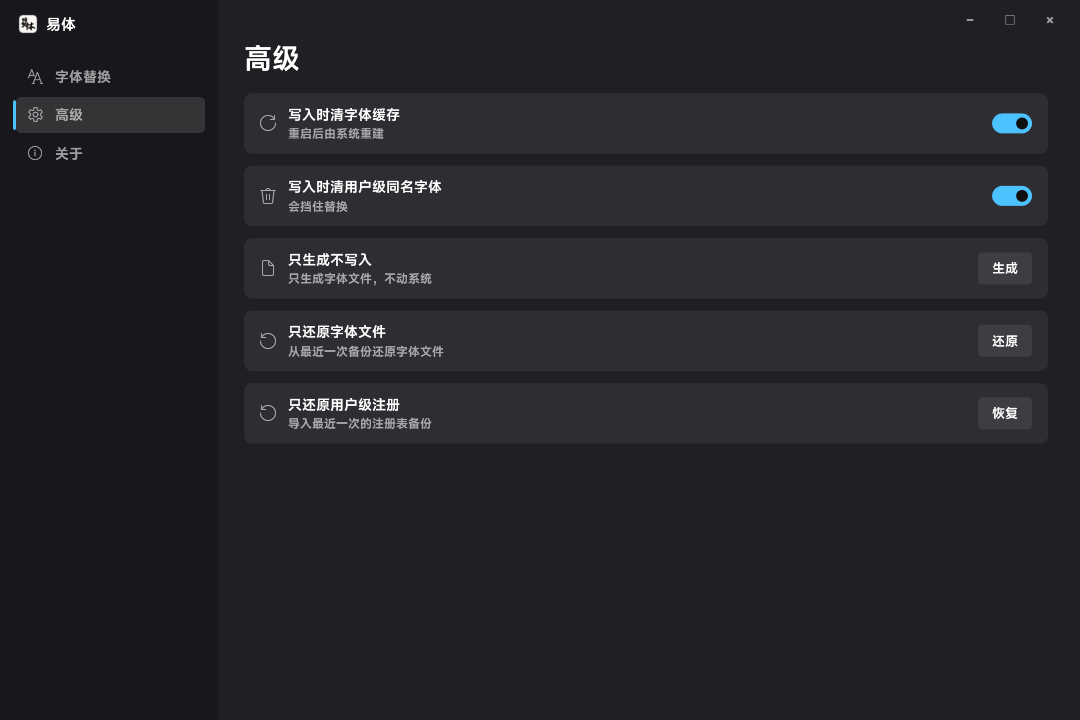
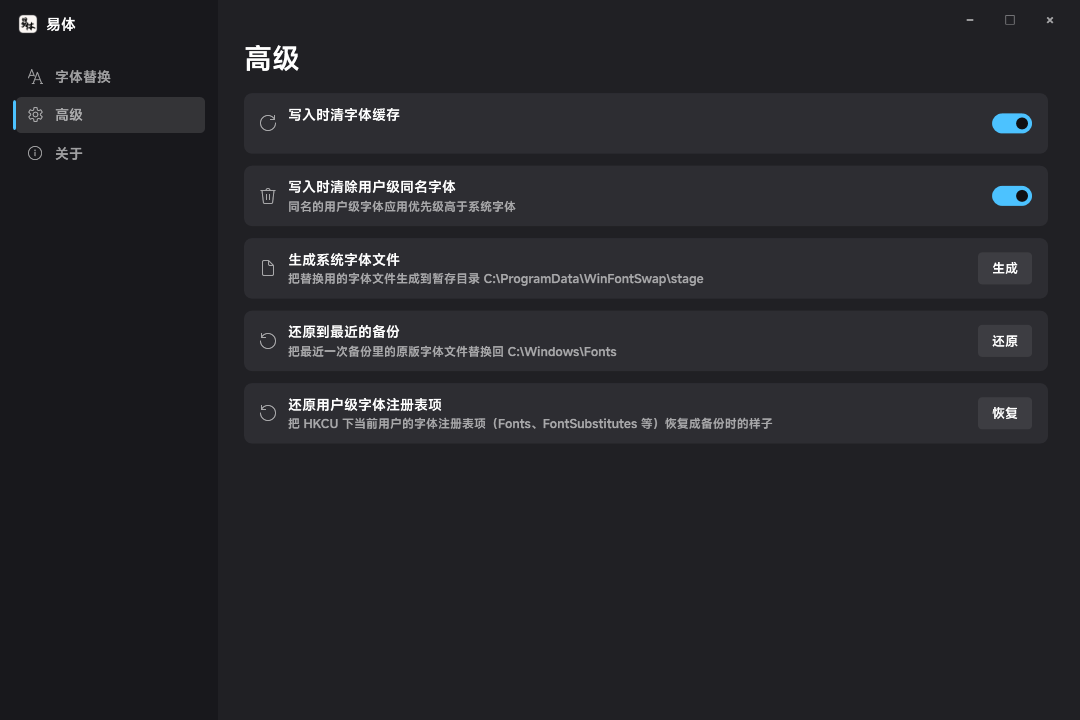
chore: apply edited UI copy, refresh screenshots (zh+en), bump README image version

diff --git a/README.en.md b/README.en.md
@@ -25,7 +25,7 @@ _✨ Foolproof one-click Windows system font swapper ✨_
   <a href="https://github.com/moyuer233/yiti"><img alt="deps" src="https://img.shields.io/badge/single%20exe-no%20deps-5C2D91?style=flat-square&labelColor=161b22&color=5C2D91"/></a>
 </p>
 
-![Font replacement](docs/font.png)
+![Font replacement](docs/font.png?v=2)
 
 ## Features
 
@@ -38,149 +38,3 @@ _✨ Foolproof one-click Windows system font swapper ✨_
 ## How it differs from noMeiryoUI
 
 [noMeiryoUI](https://github.com/Tatsu-syo/noMeiryoUI) changes the *UI font setting* (registry `HKCU\Control Panel`), so it cannot handle: the taskbar, preinstalled apps (Settings, Paint), applications that ignore the system font, and the title bar font on Windows 11.
-
-Yiti replaces the **system font files themselves**, so all of those change too. Two differences that matter:
-
-| | Yiti | noMeiryoUI |
-|---|---|---|
-| Mechanism | Replaces the system font files (the YaHei trio + Segoe UI) | Changes the UI font setting |
-| Settings, Start menu, taskbar, title bar | ✅ all follow | ❌ unsupported |
-| Rollback | Automatic backup + one-click rollback, plus the component store when the backup is gone | Export the registry yourself |
-
-Text rendering sharpness (ClearType), apps that ship their own fonts (Office, Electron apps), and the one reboot required after the first apply.
-
-## Risks
-
-This tool rewrites **system font files**: after applying, you must reboot, and undoing before that reboot is not practical. Known risks:
-
-- **A font with incomplete coverage can leave missing glyphs.** If the font lacks CJK glyphs or the needed weights, menus and title bars may show boxes or blurry text after the reboot; some legacy apps may render badly.
-- **Office / WPS layout and export can change.** A document asking for "Microsoft YaHei" now gets your font, so exported images, printing and PDF conversion differ from before.
-- **A reboot is mandatory.** Font files are swapped at boot; a forced shutdown in between can leave the swap unfinished, needing one more reboot.
-- **Antivirus may block or flag it.** It writes to `C:\Windows\Fonts`, which some security software blocks or reports; a block is reported as an error, never silently ignored.
-- **Windows updates may overwrite it.** Feature updates reset the system fonts, so you have to apply again afterwards.
-- **Rollback depends on the backup or the component store.** Both are created automatically, but if they were cleaned, only a restore point or installation media helps — **create a restore point before the first run**.
-
-## Font support by Windows version
-
-| | Windows 7 | Windows 10 1809+ | Windows 11 22000+ |
-|---|---|---|---|
-| YaHei Regular / Bold | ✅ | ✅ | ✅ |
-| YaHei Light (`msyhl.ttc`) | ❌ not present | ✅ | ✅ |
-| Segoe UI Variable (`SegUIVar.ttf`) | ❌ not present | ✅ | ✅ |
-| Cleanup of per-user same-name fonts | ❌ no such mechanism | ✅ | ✅ |
-| Taskbar / new Settings UI | partial (via `segoeui.ttf`) | ✅ | ✅ |
-| Variable font (.ttf VF) as source | ❌ default instance only | ✅ | ✅ |
-
-On older systems the font cache service is called `FontCache3.0.0.0`; from Windows 10 it is `FontCache`. The app picks the right one by itself.
-
-## Files replaced
-
-| File | Font name | Scope |
-|---|---|---|
-| `msyh.ttc` | Microsoft YaHei Regular | Chinese body text, Settings, Start menu, Explorer |
-| `msyhbd.ttc` | Microsoft YaHei Bold | every bold Chinese label |
-| `msyhl.ttc` | Microsoft YaHei Light | light weight (Windows 8 and newer) |
-| `SegUIVar.ttf` | Segoe UI Variable | taskbar, Settings header, Latin text in the new Windows 11 UI |
-| `segoeui.ttf` | Segoe UI | classic English UI, legacy apps |
-
-System font replacement flow: read the font you picked → rewrite only its internal names to `Microsoft YaHei` / `Segoe UI` and the like → generate files with those names → replace the ones in the system → reboot. That is the only way Windows recognises them.
-
-Shell element font flow: write `HKCU\Control Panel\Desktop\WindowMetrics` to control the font and size of legacy UI elements.
-
-**What cannot be changed**: apps that ship their own fonts (Office, Electron apps, games), web pages that specify a font, and text rendering parameters (ClearType and friends).
-
-### Why the internal names have to change
-
-Windows **does not pick fonts by file name — it reads the `name` table inside the font**. A font carries more than 20 name records, each with an ID:
-
-| ID | Meaning | What the system does with it |
-|---|---|---|
-| 1 | Family | the "Microsoft YaHei" string itself; GDI LOGFONT and WinUI theme resources point at it |
-| 2 | Subfamily | Regular / Bold / Light |
-| 4 | Full name | "Microsoft YaHei Bold" |
-| 6 | PostScript name | Adobe apps identify fonts by it |
-| 16 / 17 | Typographic family / subfamily | modern DirectWrite prefers these |
-| 3 / 18 / 21 / 22 | Unique ID / WWS names | font cache and font menus |
-
-Yiti rewrites exactly those ten fields (each record exists once per platform encoding), and **leaves `glyf` outlines, `hmtx` metrics, `cmap` mappings and `GSUB/GPOS` shaping untouched**. After the swap:
-
-- the UI still says "Microsoft YaHei", but **every stroke comes from your font**;
-- the system resolves fonts by name, finds this renamed file, so Settings, the Start menu and the taskbar follow;
-- copyright / version / trademark / designer (IDs 0, 5, 7, 9) are **deliberately left intact**: original authorship stays visible, and the app can still tell which font is actually installed.
-
-## How it works in detail
-
-The whole process has three stages: build → replace → reboot.
-
-### 1. Build: turn your font into a look-alike
-
-1. Read the source font (for a TTC, one face by index), parse the table directory, keep only TrueType outlines (`glyf`); CFF/OTF sources are rejected.
-2. Rebuild the `name` table: IDs 1 (family), 2 (subfamily), 3/4 (full name), 6 (PostScript), 16/17 (typographic family/subfamily), 18/21/22 (WWS) become Microsoft's names; every other record (copyright 0, version 5, trademark 7, designer 9, …) is copied unchanged.
-3. Package per target:
-
-| Target file | Family names written (number of faces) |
-|---|---|
-| `msyh.ttc` | `Microsoft YaHei` + `Microsoft YaHei UI`, both Regular (2-face TTC) |
-| `msyhbd.ttc` | same two families, Subfamily = **Bold**, PostScript names end with `-Bold` |
-| `msyhl.ttc` | `Microsoft YaHei Light` + `Microsoft YaHei UI Light` (typographic family stays YaHei, typographic style Light) |
-| `SegUIVar.ttf` | `Segoe UI Variable` / `… Text` / `… Display` / `… Small` in one file, **weight axis kept** (variable font) |
-| `segoeui.ttf` | `Segoe UI` (single face) |
-
-4. Recompute table checksums and the `head` checkSumAdjustment, then lay out the TTC directory (face offsets rebased to file positions).
-5. Two self-checks: (a) structural validation of the table directory, name records and face count; (b) **actually loading it** through GDI+ `PrivateFontCollection.AddFontFile` — if Windows cannot load it, the app aborts instead of writing it into the system.
-
-Why multiple faces: WinUI components ask for `Microsoft YaHei UI`, classic GDI asks for `Microsoft YaHei`, and the taskbar asks for `Segoe UI Variable Text/Display/Small` — those families do not fit into a single-face file, so it has to be a multi-face TTC.
-
-### 2. Replacing the system fonts: backup → permissions → queued renames
-
-1. Copy the originals to `C:\ProgramData\WinFontSwap\backup\<stamp>\orig\` and record their SHA-256 in `state.ini`.
-2. Take ownership, grant SYSTEM full control, and **inherit the original font's DACL** (keeping the `ALL APPLICATION PACKAGES` read ACE that UWP needs); without it, packaged apps cannot read the font.
-3. Write the new files into a staging directory, then queue two renames per file in `PendingFileRenameOperations`:
-   - `staged file → C:\Windows\Fonts\msyh.ttc`
-   - `C:\Windows\Fonts\msyh.ttc → backup path`
-   The font files are mapped by the font service, so **only the session manager can swap them at boot**.
-4. Clear the font cache: stop `FontCache` (`FontCache3.0.0.0` on Windows 7), delete `FNTCACHE.DAT` and the per-user `FontCache` directory, otherwise the old glyphs survive the reboot.
-5. Record the `applied` list and each new SHA for status display and rollback decisions.
-
-#### Shell element replacement
-
-The five values under `HKCU\Control Panel\Desktop\WindowMetrics` (`SmCaptionFont`, `MenuFont`, `MessageFont`, `StatusFont`, `IconFont`) are 92-byte `LOGFONTW` blobs: offset 0 holds the height (negative = character height) and offset `0x5C` holds a 32-wide-character face name. The app rewrites those two fields and reads them back to verify.
-
-### 3. Rollback
-
-Compare the SHA in `state.ini` with the current files; if they are ours, queue the originals from the backup through the same boot-time rename list and restore `WindowMetrics` from the backup. If the backup is gone, take the originals from `C:\Windows\WinSxS` by package name (`microsoftyahei` and friends).
-
-## Why renaming a font file does not work
-
-This is the reason the tool exists. The three naive approaches all fail:
-
-| Approach | What happens |
-|---|---|
-| Install a new font (different family name) | System components never use it: the WinUI theme hardcodes `Microsoft YaHei UI` and GDI's LOGFONT hardcodes `Microsoft YaHei`; nothing looks up your family name |
-| Rename the new font file to `msyh.ttc` and overwrite | The file name matches, but **the internal family name is still the original one** (e.g. HarmonyOS Sans), so Windows registers it under that name ⇒ `Microsoft YaHei` cannot be resolved and the UI falls back or shows missing glyphs; a wrong face count/order inside a TTC also breaks bold and light |
-| Replace only `msyh.ttc` | Bold `msyhbd.ttc` and light `msyhl.ttc` stay YaHei, so the UI is only half swapped; the Windows 11 taskbar and Settings header use `SegUIVar.ttf`, which stays untouched; legacy menus and message boxes live in the registry and do not change either |
-
-Four things are required, and skipping any of them leaves you with "Settings changed but the taskbar did not":
-
-1. **Rewrite the internal names** (`name` table) so the system believes this is Microsoft YaHei;
-2. **Replace all five files** — the three YaHei files plus the two Segoe UI files;
-3. **Write the registry** `HKCU\Control Panel\Desktop\WindowMetrics` for legacy shell elements (menu, message box, status bar, icon);
-4. **Clear the font cache and swap at boot** — the files are locked while Windows runs, and a stale cache keeps serving the old glyphs.
-
-## Build from source
-
-Requires the .NET Framework compiler:
-
-```powershell
-powershell -NoProfile -ExecutionPolicy Bypass -File .\build-wpf.ps1
-```
-
-The output is always `dist\YiTi.exe`.
-
-## Disclaimer
-
-The risks of modification are stated above. The author is not liable for system damage, data loss or any other loss caused by using this software.
-
-## License
-
-[MIT](LICENSE) — free to use, modify and redistribute, **as long as the author attribution and this license notice are kept**.

diff --git a/README.md b/README.md
@@ -25,7 +25,7 @@ _✨ 傻瓜式Windows全局字体替换工具 ✨_
   <a href="https://github.com/moyuer233/yiti"><img alt="deps" src="https://img.shields.io/badge/%E5%8D%95%E6%96%87%E4%BB%B6-%E6%97%A0%E4%BE%9D%E8%B5%96-5C2D91?style=flat-square&labelColor=161b22&color=5C2D91"/></a>
 </p>
 
-![字体替换](docs/font.png)
+![字体替换](docs/font.png?v=2)
 
 ## 主要功能
 
@@ -38,148 +38,3 @@ _✨ 傻瓜式Windows全局字体替换工具 ✨_
 ## 和 noMeiryoUI 有什么不同
 
 [noMeiryoUI](https://github.com/Tatsu-syo/noMeiryoUI) 改的是「界面字体设置」（注册表 `HKCU\Control Panel`），所以它做不到：任务栏、预装应用（设置、画图）、忽略系统字体的程序、以及 Windows 11 的标题栏字体。
-
-易体换的是**系统字体文件本身**，这几处都可以更改。两点核心差异：
-
-| | 易体 | noMeiryoUI |
-|---|---|---|
-| 原理 | 替换系统字体文件（雅黑三件套 + Segoe UI） | 改界面字体设置 |
-| 设置、开始菜单、任务栏、标题栏 | ✅ 一起变 | ❌ 不支持 |
-| 回滚 | 自动备份 + 一键回滚，备份丢了还能从系统组件存储取原版 | 需要自己导出注册表 |
-
-字体渲染的清晰度（ClearType）、自带字体的应用（Office、Electron 类）、以及首次必须重启才生效。
-
-## 风险
-
-这个工具改的是**系统字体文件**，属于「改完必须重启、重启前不好回头」的操作。已知风险如下：
-
-- **装错字体可能导致界面缺字**：字体汉字不全或缺对应字重时，重启后菜单、标题栏会出现方框或糊字；严重时部分老程序显示异常。
-- **影响 Office / WPS 的排版与导出**：文档里的「微软雅黑」此时已是你的字体，导出图片、打印、转 PDF 会和原来不一样。
-- **应用必须重启**：字体在重启时才真正替换，中间强制关机可能更换不成功，需要再重启一次。
-- **可能被杀软拦或误报**：要修改 `C:\Windows\Fonts`文件夹，部分安全软件会拦截甚至报毒；被拦时明确报错，不静默失败。
-- **系统更新可能覆盖**：Windows 大版本更新会重置系统字体，更新后要重新应用一次。
-- **回滚依赖备份或组件存储**：会自动备份、也能从 WinSxS 取原版，但两者都被清理过就只剩还原点或安装介质 —— **动手前建议自己再建一个还原点**。
-
-## 不同系统字体修改的区别
-
-| | Win7 | Win10 1809+ | Win11 22000+ |
-|---|---|---|---|
-| 雅黑 常规 / 粗体 | ✅ | ✅ | ✅ |
-| 雅黑 细体（`msyhl.ttc`） | ❌ 系统没有 | ✅ | ✅ |
-| 英数可变字体（`SegUIVar.ttf`） | ❌ 系统没有 | ✅ | ✅ |
-| 清理用户级同名字体 | ❌ 无此机制 | ✅ | ✅ |
-| 任务栏 / 设置等新界面 | 部分（靠 `segoeui.ttf`） | ✅ | ✅ |
-| 可变字体（.ttf 的 VF 版）当源字体 | ❌ 只画默认字重 | ✅ | ✅ |
-
-老系统上「字体缓存服务」叫 `FontCache3.0.0.0`，Win10 之后是 `FontCache`，程序会按系统自己选。
-
-## 系统字体文件替换列表
-
-| 文件 | 字体名称 | 影响范围 |
-|---|---|---|
-| `msyh.ttc` | 微软雅黑 常规 | 中文正文、设置、开始菜单、资源管理器 |
-| `msyhbd.ttc` | 微软雅黑 粗体 | 所有加粗中文 |
-| `msyhl.ttc` | 微软雅黑 细体 | 细体（Win8 起才有） |
-| `SegUIVar.ttf` | Segoe UI Variable | 任务栏、设置顶部、Win11 新界面的英文数字 |
-| `segoeui.ttf` | Segoe UI | 经典英文界面、老程序 |
-
-系统字体替换流程：读取你的所选字体 → 只把字体里的名字改成 `Microsoft YaHei` / `Segoe UI` 此类 → 生成同名字体文件 → 替换系统内的 → 重启生效。只有这样系统才会识别。
-
-系统元素字体替换流程：修改注册表 `HKCU\Control Panel\Desktop\WindowMetrics`，以控制老式界面的字体和字号。
-
-**无法更换的**：自带字体的程序（Office、Electron 应用、游戏）、网页内指定字体的文字、字体渲染参数（ClearType 类）。
-
-### 为什么要改字体里的名字
-
-Windows **找字体不看文件名，看字体内部的 `name` 表**（OpenType 规范里的命名表）。一个字体有 20 多个名字字段，各有编号：
-
-| 编号 | 含义 | 系统拿它干什么 |
-|---|---|---|
-| 1 | 族名（Family） | 就是「微软雅黑」这四个字。GDI 的 LOGFONT、WinUI 主题里写死的字体名都指它 |
-| 2 | 样式（Subfamily） | Regular / Bold / Light |
-| 4 | 完整名 | 「Microsoft YaHei Bold」 |
-| 6 | PostScript 名 | Adobe 系软件按它认字体 |
-| 16 / 17 | 排版族名 / 排版样式 | 现代 DirectWrite 优先用这两个 |
-| 3 / 18 / 21 / 22 | 唯一 ID / WWS 名 | 字体缓存与字体选单 |
-
-易体只重写上面这 10 个字段（每条记录在 Windows 和 Mac 两种平台编码里各一份），**字形表 `glyf`、度量 `hmtx`、字符映射 `cmap`、连字 `GSUB/GPOS` 一个字节都不动**。所以换完之后：
-
-- 界面里显示的名字还是「微软雅黑」，但**每一笔都来自你选的字体**；
-- 系统按名字找字体，找到的就是这个改了名的文件，于是设置、开始菜单、任务栏都跟着变；
-- 版权 / 版本 / 商标 / 设计师（0、5、7、9）**故意不改**：既保留原作者信息，也正好让程序能反查「当前装的到底是什么字体」。
-
-## 详细原理
-
-基本过程分「生成 → 替换 → 重启生效 」三段。
-
-### 一、生成：把你的字体做成“同名替身”
-
-1. 读源字体（TTC 的话按 face 索引取一个），解析表目录，只保留 TrueType 轮廓（`glyf`），CFF/OTF 直接拒绝。
-2. 重建 `name` 表：把 1(族名)、2(样式)、3/4(完整名)、6(PostScript)、16/17(排版族名/样式)、18/21/22(WWS) 换成微软的名字，其他记录（版权 0、版本 5、商标 7、设计师 9…）原样保留。
-3. 按目标打包：
-
-| 目标文件 | 写进去的族名（face 数） |
-|---|---|
-| `msyh.ttc` | `Microsoft YaHei` + `Microsoft YaHei UI`，都是 Regular（2 个 face 的 TTC） |
-| `msyhbd.ttc` | 同上两个族名，Subfamily = **Bold**，PostScript 名带 `-Bold` |
-| `msyhl.ttc` | `Microsoft YaHei Light` + `Microsoft YaHei UI Light`（排版族名仍是 YaHei，排版样式 Light） |
-| `SegUIVar.ttf` | `Segoe UI Variable` / `… Text` / `… Display` / `… Small` 四个族名写进同一个文件，**保留字重轴**（可变字体） |
-| `segoeui.ttf` | `Segoe UI`（单 face） |
-
-4. 重算表校验和与 `head` 的 checkSumAdjustment，拼回 TTC 目录（face 偏移按文件重排）。
-5. 两道自检：① 结构校验（`Verify`：表目录、name 记录、face 数对不对）；② **真的加载一次**（GDI+ `PrivateFontCollection.AddFontFile`），系统加载不了就直接报错，不写进系统。
-
-为什么要多 face：WinUI 组件请求的是 `Microsoft YaHei UI`，经典 GDI 请求 `Microsoft YaHei`，任务栏请求 `Segoe UI Variable Text/Display/Small` —— 一个文件名里塞不下这些族，必须做成多 face 的 TTC。
-
-### 二、系统字体替换：备份 → 权限 → 排队改名
-
-1. 备份原文件到 `C:\ProgramData\WinFontSwap\backup\<时间戳>\orig\`，同时把 SHA-256 写进 `state.ini`。
-2. 取文件所有权、给 SYSTEM 完全控制，并**继承原字体的 DACL**（保留 UWP 需要的 `ALL APPLICATION PACKAGES` 读权限），否则改完系统应用读不到字体。
-3. 新文件先落到暂存目录，然后往注册表 `PendingFileRenameOperations` 里排两对操作：
-   - `暂存新文件 → C:\Windows\Fonts\msyh.ttc`
-   - `C:\Windows\Fonts\msyh.ttc → 备份路径`
-   字体文件被系统占用（映射在字体服务里），**只能重启时由会话管理器替换**。
-4. 清字体缓存：停 `FontCache`（Win7 叫 `FontCache3.0.0.0`）、删 `FNTCACHE.DAT` 与用户 `FontCache` 目录，否则重启后仍用旧字形。
-5. 记下 `applied` 清单与每个文件的新 SHA，供状态显示与回滚判断。
-
-#### 界面元素替换
-
-`HKCU\Control Panel\Desktop\WindowMetrics` 里 5 个值（`SmCaptionFont`、`MenuFont`、`MessageFont`、`StatusFont`、`IconFont`）是 92 字节的 `LOGFONTW`：偏移 0 是高度（负值＝字符高），偏移 `0x5C` 是 32 个宽字符的字体面名。程序直接改这两段，再回读校验。
-
-### 三、回滚
-
-读 `state.ini` 里的 SHA 判断当前文件是不是我们写进去的；是则把备份里的原版排进同一套重启改名队列，并把 `WindowMetrics` 恢复成备份值。原版丢失时，从 `C:\Windows\WinSxS` 里按包名（`microsoftyahei` 等）取组件存储中的原版。
-## 为什么「把字体文件改个名」没用
-
-这是这个工具存在的理由。常见的三种“简单替换”都会失败：
-
-| 做法 | 结果 |
-|---|---|
-| 安装一款新字体（族名不同） | 系统组件根本不会用它：WinUI 主题里写死 `Microsoft YaHei UI`，GDI 的 LOGFONT 写死 `Microsoft YaHei`，没有任何地方会按你的族名去找 |
-| 把新字体文件改名成 `msyh.ttc` 覆盖 | 文件名对了，但**字体内部的族名还是原来的**（比如 HarmonyOS Sans），Windows 加载后仍按内部名注册 ⇒ 系统找 `Microsoft YaHei` 找不到，界面回退或缺字；TTC 里 face 的数量/顺序不对，还会让粗体、细体错位 |
-| 只换 `msyh.ttc` 一个文件 | 粗体 `msyhbd.ttc`、细体 `msyhl.ttc` 还是雅黑，界面“半换”；Win11 的任务栏和设置顶部用的是 `SegUIVar.ttf`，不换它任务栏不变；老式菜单/消息框的字体在注册表里，不改还是雅黑 |
-
-所以真正生效需要四件事，缺一件就会出现「设置变了、任务栏没变」这种半成品状态：
-
-1. **改字体内部的名字**（`name` 表）：让系统认为这就是微软雅黑；
-2. **五个文件一起换**：雅黑三件套 + Segoe UI 两件；
-3. **写注册表** `HKCU\Control Panel\Desktop\WindowMetrics`：老式界面元素（菜单、消息框、状态栏、图标）；
-4. **清字体缓存 + 重启时替换**：字体文件被系统占用，不能热替换；缓存不清会继续用旧字形。
-
-## 从源码构建
-
-需要`.NET Framework`编译器：
-
-```powershell
-powershell -NoProfile -ExecutionPolicy Bypass -File .\build-wpf.ps1
-```
-
-产物固定在 `dist\YiTi.exe`。
-
-## 免责
-
-本软件已明确说明修改风险，因使用本软件导致的系统异常、数据丢失或其他损失，程序作者不承担相关责任。
-
-## 许可
-
-[MIT](LICENSE) —— 可以自由使用、修改、分发，**但必须保留作者署名与许可声明**。
